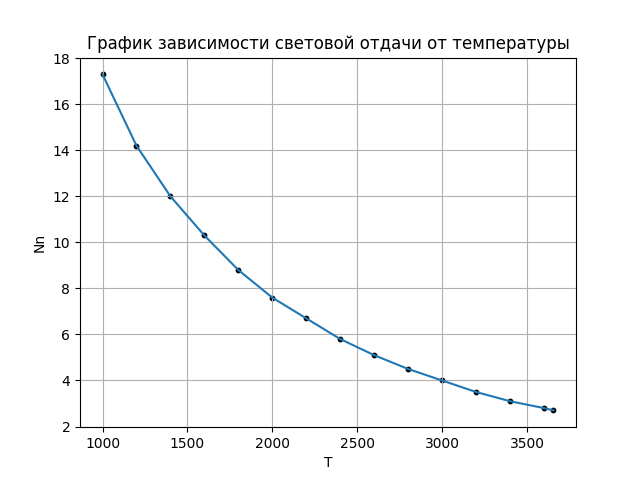
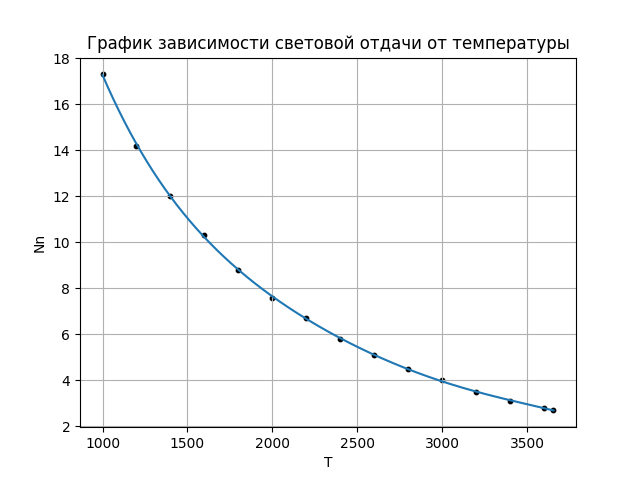
18.11.21

diff --git a/MethodsAndSystemsOfQuantumRadiophysics/lab2/lab2.py b/MethodsAndSystemsOfQuantumRadiophysics/lab2/lab2.py
@@ -1,4 +1,4 @@
-from functions import graph_add
+from functions import common_graph, interpolated_graph
 
 import pandas
 from math import pi
@@ -12,9 +12,9 @@ def main():
     nl = data1['Nl']
     nn = data1['Nn']
 
-    graph_add(temperature, nm, ['graph1', 'T', 'Nm', 'График зависимости плотности излучения от температуры'])
-    graph_add(temperature, nl, ['graph2', 'T', 'Nl', 'График зависимости яркости от температуры'])
-    graph_add(temperature, nn, ['graph3', 'T', 'Nn', 'График зависимости световой отдачи от температуры'])
+    common_graph(temperature, nm, ['graph1', 'T', 'Nm', 'График зависимости плотности излучения от температуры'])
+    interpolated_graph(temperature, nl, ['graph2', 'T', 'Nl', 'График зависимости яркости от температуры'])
+    interpolated_graph(temperature, nn, ['graph3', 'T', 'Nn', 'График зависимости световой отдачи от температуры'])
 
     data2 = pandas.read_csv('data/table2.csv')
 
@@ -23,9 +23,11 @@ def main():
     tau2 = data2['tau2']
     ro = data2['ro']
 
-    graph_add(wavelength, tau1, ['graph4', '\u03BB', '\u03C4\u2081', 'График зависимости \u03C4\u2081 от длины волны'])
-    graph_add(wavelength, tau2, ['graph5', '\u03BB', '\u03C4\u2082', 'График зависимости \u03C4\u2082 от длины волны'])
-    graph_add(wavelength, ro, ['graph6', '\u03BB', '\u03C1', 'График зависимости \u03C1 от длины волны'])
+    common_graph(wavelength, tau1,
+                 ['graph4', '\u03BB', '\u03C4\u2081', 'График зависимости \u03C4\u2081 от длины волны'])
+    common_graph(wavelength, tau2,
+                 ['graph5', '\u03BB', '\u03C4\u2082', 'График зависимости \u03C4\u2082 от длины волны'])
+    common_graph(wavelength, ro, ['graph6', '\u03BB', '\u03C1', 'График зависимости \u03C1 от длины волны'])
 
     const = {'l1': 500, 'l2': 100, 'a1': 250, 'a2': 250, 'a_inp': 100, 'l': 200000}
     signal = []
@@ -33,7 +35,7 @@ def main():
         signal.append(((1/pi) * const['a1'] * const['a2'] * const['a_inp'] * const['l'] * tau1[i] * tau2[i] * ro[i] *
                        wavelength[i]) / ((const['l1'] ** 2) * (const['l2'] ** 2)))
 
-    graph_add(wavelength, signal, ['graph7', '\u03BB', 'Фс', 'График зависимости полезного сигнала от длины волны'])
+    common_graph(wavelength, signal, ['graph7', '\u03BB', 'Фс', 'График зависимости полезного сигнала от длины волны'])
 
 
 if __name__ == "__main__":

diff --git a/MethodsAndSystemsOfQuantumRadiophysics/lab1/lab1.py b/MethodsAndSystemsOfQuantumRadiophysics/lab1/lab1.py
@@ -1,4 +1,4 @@
-from functions import graph_add
+from functions import common_graph, interpolated_graph
 
 
 def main():
@@ -11,12 +11,19 @@ def main():
         delta.append(_)
         s.append(10 * (20 + _) / (10 + _))
 
-    graph_add(delta, d, ['graph1', 'Расстояние между плоскостью анализа и главной плоскостью',
-                         'Диаметр входного зрачка', 'График зависимости диаметра входного зрачка и его положения от '
-                         '\u0394'])
-    graph_add(delta, s, ['graph2', 'Расстояние между плоскостью анализа и главной плоскостью',
-                         'Положение выходного зрачка на оси', 'График зависимости положения выходного зрачка на оси от '
-                         '\u0394'])
+    interpolated_graph(delta, d, [
+        'graph1',
+        'Расстояние между плоскостью анализа и главной плоскостью',
+        'Диаметр входного зрачка',
+        'График зависимости диаметра входного зрачка и его положения от \u0394'
+    ])
+
+    interpolated_graph(delta, s, [
+        'graph2',
+        'Расстояние между плоскостью анализа и главной плоскостью',
+        'Положение выходного зрачка на оси',
+        'График зависимости положения выходного зрачка на оси от \u0394'
+    ])
 
 
 if __name__ == "__main__":

diff --git a/MethodsAndSystemsOfQuantumRadiophysics/lab3/lab3.py b/MethodsAndSystemsOfQuantumRadiophysics/lab3/lab3.py
@@ -1,4 +1,4 @@
-from functions import graph_add
+from functions import interpolated_graph, common_graph
 from math import pi
 
 
@@ -20,10 +20,19 @@ def main():
         y2.append(4.45 * pi * pi * diameter ** 3 * 108 / _ ** 2)
         x2.append(_)
 
-    graph_add(x1, y1, ['graph1', 'Диаметр входного зрачка', 'Сигнал/шум', 'График зависимости С/Ш от диаметра входного '
-                       'зрачка'])
+    interpolated_graph(x1, y1, [
+        'graph1',
+        'Диаметр входного зрачка',
+        'Сигнал/шум',
+        'График зависимости С/Ш от диаметра входного зрачка'
+    ])
 
-    graph_add(x2, y2, ['graph2', 'Фокус', 'Сигнал/шум', 'График зависимости С/Ш от фокуса'])
+    common_graph(x2, y2, [
+        'graph2',
+        'Фокус',
+        'Сигнал/шум',
+        'График зависимости С/Ш от фокуса'
+    ])
 
 
 if __name__ == "__main__":

diff --git a/functions.py b/functions.py
@@ -1,7 +1,8 @@
 import matplotlib.pyplot as plt
+import numpy
 
 
-def graph_add(x, y, title):
+def common_graph(x, y, title):
     count = 0
     while count < len(y):
         plt.scatter(x[count], y[count], c='black', s=10)
@@ -11,5 +12,24 @@ def graph_add(x, y, title):
     plt.ylabel(title[2])
     plt.plot(x, y)
     plt.grid()
+    plt.savefig('graphs/' + title[0] + '.png')
+    plt.close()
+
+
+def interpolated_graph(x, y, title):
+    plt.grid()
+    plt.title(title[3])
+    plt.xlabel(title[1])
+    plt.ylabel(title[2])
+
+    count = 0
+    while count < len(y):
+        plt.scatter(x[count], y[count], c='black', s=10)
+        count += 1
+
+    x_new = numpy.linspace(min(x), max(x), 500000)
+    poly = numpy.polyfit(x, y, 5)
+    y_new = numpy.polyval(poly, x_new)
+    plt.plot(x_new, y_new)
     plt.savefig('graphs/' + title[0] + '.png')
     plt.close()
